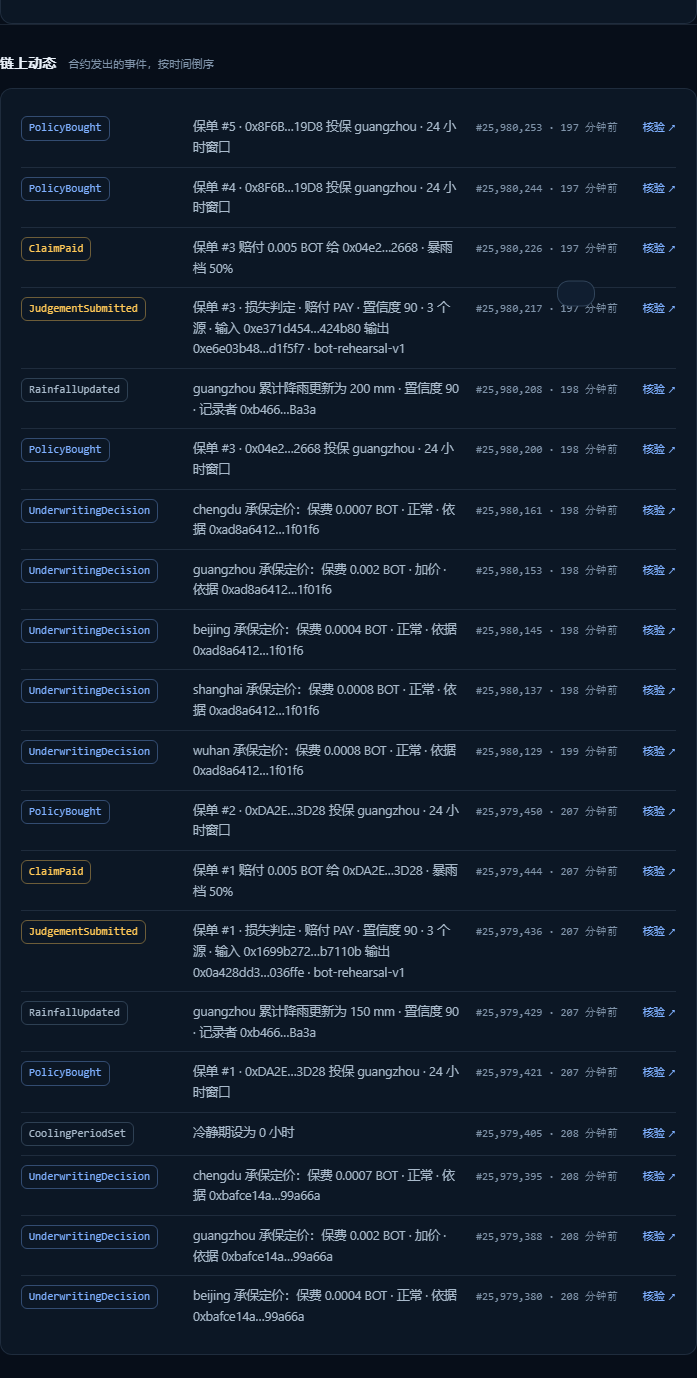
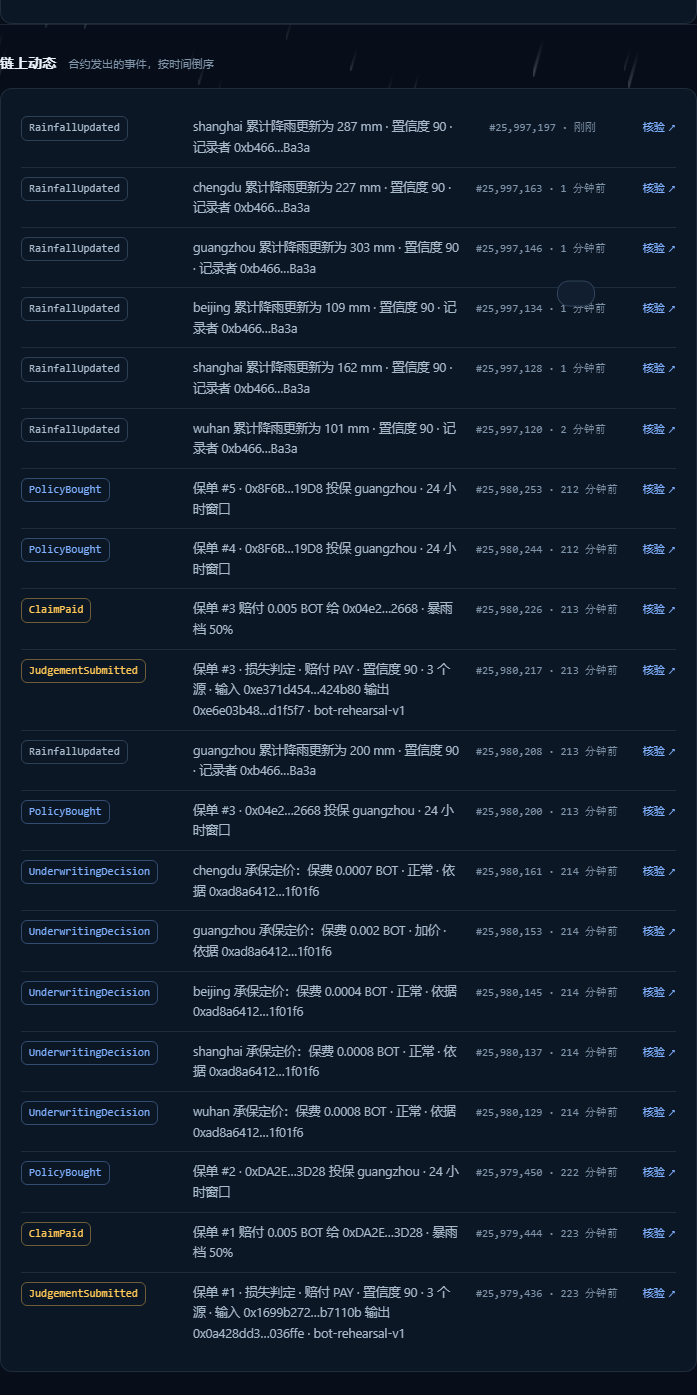
[A] 喂价刷新后更新操作卡（模拟喂价不可逆 + 今晚 20:00 自动重喂）；push-rainfall 状态页单位改 BOT；存证截图终版 8 张

diff --git a/04-脚本/push-rainfall.js b/04-脚本/push-rainfall.js
@@ -618,7 +618,7 @@ async function printStatus(readC, chainInfo) {
       : C.dim("—（还没有喂过价）");
     console.log(
       `  #${id} ${nm.padEnd(14)} ${String(mm).padStart(5)}mm  ${bar(mm, Number(threshold), 12)}  ` +
-      `${(prem === null ? "—" : formatEther(prem) + " ETH").padEnd(10)} ${riskStr.padEnd(6)} ${fjStr}${fresh}`
+      `${(prem === null ? "—" : formatEther(prem) + " " + sym).padEnd(10)} ${riskStr.padEnd(6)} ${fjStr}${fresh}`
     );
   }
   console.log("");

diff --git a/02-作战与答辩/展示当天操作卡-2026-10-08.md b/02-作战与答辩/展示当天操作卡-2026-10-08.md
@@ -5,15 +5,18 @@
 ## 一、上午必做：刷新喂价（**最重要**）
 
 链上 `MAX_FEED_AGE = 24 小时`：某个区域超过 24 小时没喂价，`buyPolicy` 会直接 revert（`stale feed: feed before buying`），现场点「投保」就是失败。
-最后一轮喂价在 **10-07 11:31–11:43**，也就是 **10-08 11:31 之后五城全部过期**——而展示是 13:30 开始。所以上午必须重喂一次。
+**最新状态（10-07 15:15 已全部重喂，模拟强降雨）**：五城喂价时刻 10-07 15:15–15:16 ⇒ **过期时刻 = 10-08 15:15:23**，而展示窗口是 13:30–15:30 —— 保险做法是**上午再喂一次**，把窗口推到 10-09。`npm run status` 每行末尾的「基线 剩 Xh」就是权威数字。
 
 ```powershell
 cd D:\workbuddy-use\汉客松-参赛包\04-脚本
 $env:NODE_USE_ENV_PROXY='1'; $env:HTTPS_PROXY='http://127.0.0.1:7890'   # 本机连 BOT Chain 要走代理
 $env:SEPOLIA_RPC='https://rpc.bohr.life'                                # 变量名沿用，内容指向 968
-npm run status      # 先看：五城每行末尾「基线 剩 Xh」；剩不到 4 小时就喂
-npm run push        # 刷新五城喂价（用 .env 里的 operator 私钥）
+npm run status             # 先看：五城每行末尾「基线 剩 Xh」；过期时刻见上一行说明
+npm run push -- --demo     # 要喂就用这个：在链上现值基础上再加 60~130mm
 ```
+
+> **为什么不能再用真实数据模式**：合约 `03-合约/RainDeliveryInsuranceV2.sol:250` 有 `require(cumulativeMm >= rainfall[regionId], "cumulative must not decrease")` —— 累计降雨只能涨。我们已经推过模拟暴雨（现值 101~303mm），Open-Meteo 的真值更小，`npm run push` 会被 revert。**这是选择模拟喂价的既定代价，答辩时如实说**：链上那几行标着「背景雨幕」的绿色值就是模拟值，`09-AI判定留痕/` 里的快照也带 `simulated: true`。
+> 今晚 20:00 我（A）会再自动喂一次：成功的话窗口到 **10-08 20:00**，上午那次就只是保险，15:30 前不会再过期。
 
 `npm run status` 在 968 上应显示：`BOT Chain Testnet · chainId 968`、资金池 `0.0868 BOT`、准备金 `0.03 BOT`（= 3 份未了结保单 × 0.01）。
 若某城显示「❌ 已过期」，**先喂价再演示**。
